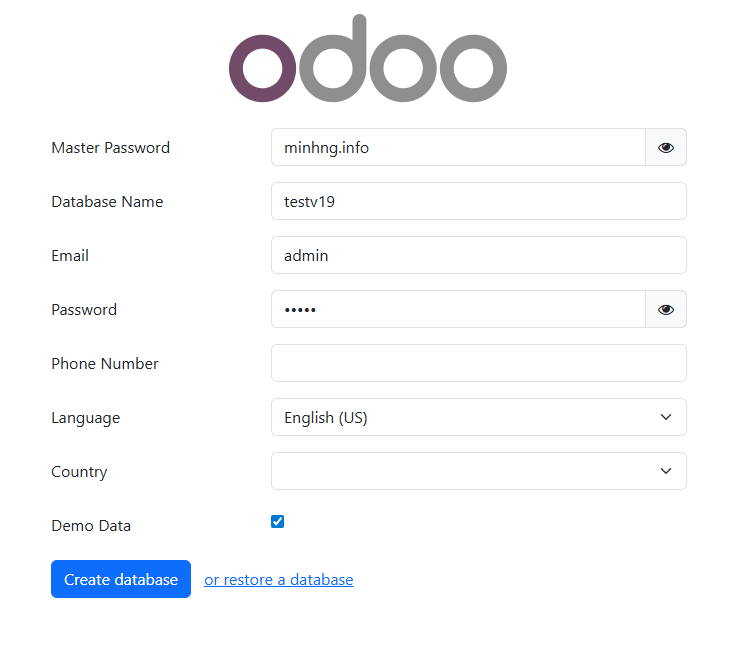
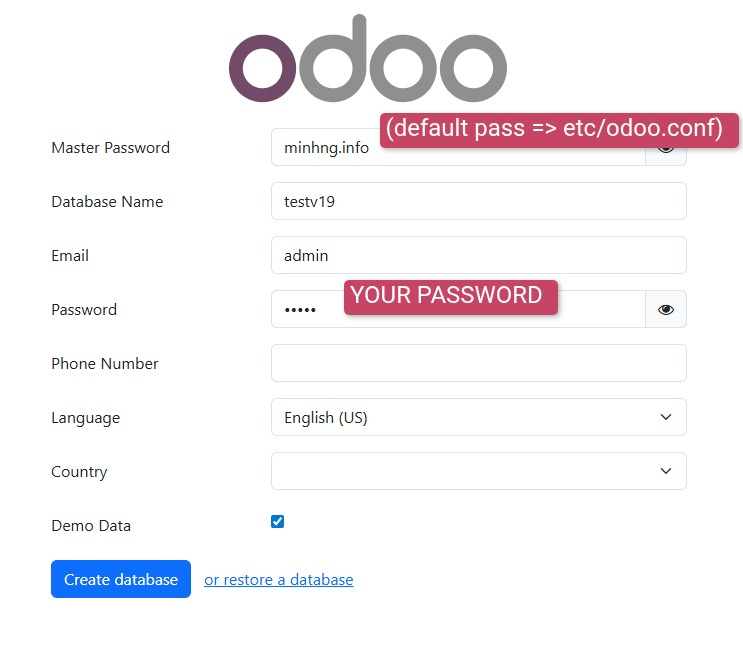
update screenshots

diff --git a/README.md b/README.md
@@ -83,7 +83,7 @@ The **addons/** folder contains custom addons. Just put your custom addons if yo
 
 * To change Odoo configuration, edit file: **etc/odoo.conf**.
 * Log file: **etc/odoo-server.log**
-* Default database password (**admin_passwd**) is `minhng.info`, please change it @ [etc/odoo.conf#L60](/etc/odoo.conf#L60)
+* Default database password (**admin_passwd**) is `minhng.info`, please change it @ [etc/odoo.conf#L75](/etc/odoo.conf#L75)
 
 ## Odoo container management
 
@@ -107,7 +107,7 @@ docker-compose down
 
 ## Live chat
 
-In [docker-compose.yml#L21](docker-compose.yml#L21), we exposed port **20019** for live-chat on host.
+In [docker-compose.yml#L20](docker-compose.yml#L20), we exposed port **20019** for live-chat on host.
 
 Configuring **nginx** to activate live chat feature (in production):
 
